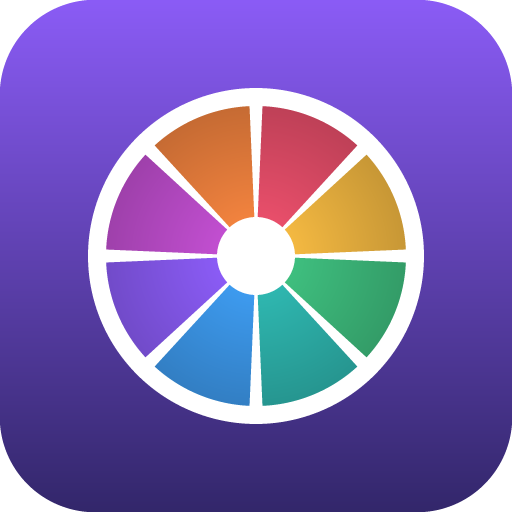
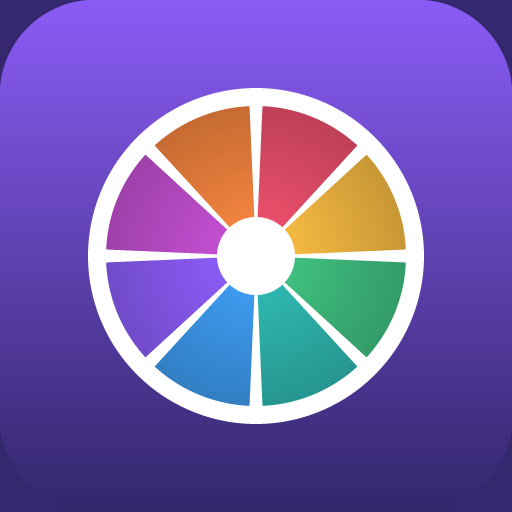
fix(store): uygulama ikonundaki seffaflik giderildi
- Play seffaf ikonu reddediyor; kenar rengiyle duzlestirildi (RGB, 512x512, 37 KB)
- store/tam-aciklama.txt: magaza girisi icin hazir metin
- tool/check_store_assets.py, tool/flatten_icon.py: dogrulama ve duzeltme

diff --git a/tool/check_store_assets.py b/tool/check_store_assets.py
@@ -1,0 +1,33 @@
+"""Play magaza girisi: metin uzunluklari ve gorsel kurallari kontrolu."""
+import os
+
+from PIL import Image
+
+BASE = r"C:\Users\alhndgn\Desktop\carkifelek-play"
+
+kisa_a = "Kararsız kalınca çarkı çevir: 66 hazır çark, 4 görünüm, 6 tema."
+kisa_b = "Ne yiyelim, kim ödesin? Çarkı çevir, kararı şansa bırak. Reklamsız."
+kisa_c = "Kararsız kalınca çarkı çevir. 66 hazır çark, 4 görünüm, 6 tema."
+
+for etiket, metin in [("A", kisa_a), ("B", kisa_b), ("C", kisa_c)]:
+    n = len(metin)
+    print("kisa %s: %3d/80  %s  %s" % (etiket, n, "OK " if n <= 80 else "UZUN", metin))
+
+print()
+for ad in ["icon-512.png", "feature-graphic.png", "phone-1-cark.png",
+           "phone-2-hedef.png", "phone-3-kutuphane.png", "phone-4-temalar.png"]:
+    p = os.path.join(BASE, ad)
+    if not os.path.exists(p):
+        print("%-22s YOK" % ad)
+        continue
+    im = Image.open(p)
+    w, h = im.size
+    kb = os.path.getsize(p) / 1024
+    oran = w / h
+    alpha = im.mode in ("RGBA", "LA")
+    seffaf = False
+    if alpha:
+        a = im.convert("RGBA").getchannel("A")
+        seffaf = a.getextrema()[0] < 255
+    print("%-22s %4dx%-4d %6.0f KB  oran=%.3f  seffaflik=%s"
+          % (ad, w, h, kb, oran, "VAR!" if seffaf else "yok"))

diff --git a/tool/flatten_icon.py b/tool/flatten_icon.py
@@ -1,0 +1,35 @@
+"""Play ikonundaki seffafligi, ikonun kendi kenar rengiyle doldurur."""
+import os
+from collections import Counter
+
+from PIL import Image
+
+BASE = r"C:\Users\alhndgn\Desktop\carkifelek-play"
+SRC = os.path.join(BASE, "icon-512.png")
+
+im = Image.open(SRC).convert("RGBA")
+W, H = im.size
+px = im.load()
+
+# Kenar bolgesindeki opak piksellerin baskin rengi
+c = Counter()
+for y in range(0, H, 2):
+    for x in range(0, W, 2):
+        if x < 24 or y < 24 or x > W - 24 or y > H - 24:
+            r, g, b, a = px[x, y]
+            if a >= 250:
+                c[(r, g, b)] += 1
+
+arka = c.most_common(1)[0][0] if c else (13, 11, 24)
+print("  baskin kenar rengi: RGB%s" % (arka,))
+
+payet = Image.new("RGB", im.size, arka)
+payet.paste(im, mask=im.getchannel("A"))
+out = os.path.join(BASE, "icon-512.png")
+payet.save(out, "PNG", optimize=True)
+
+# dogrula
+chk = Image.open(out)
+alfa = chk.convert("RGBA").getchannel("A").getextrema()
+print("  yeni mod: %s  boyut: %dx%d  %.0f KB  alfa aralik: %s"
+      % (chk.mode, chk.size[0], chk.size[1], os.path.getsize(out) / 1024, alfa))
